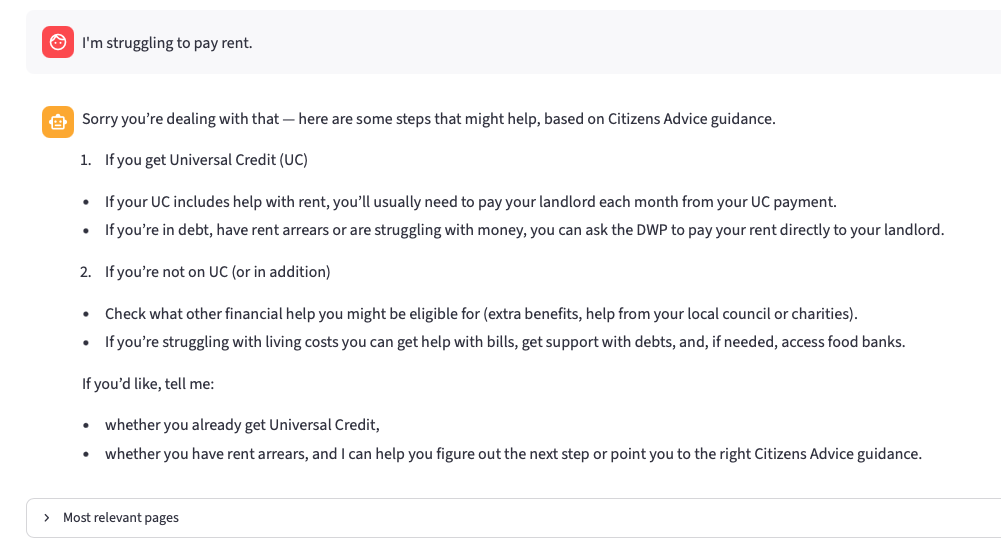
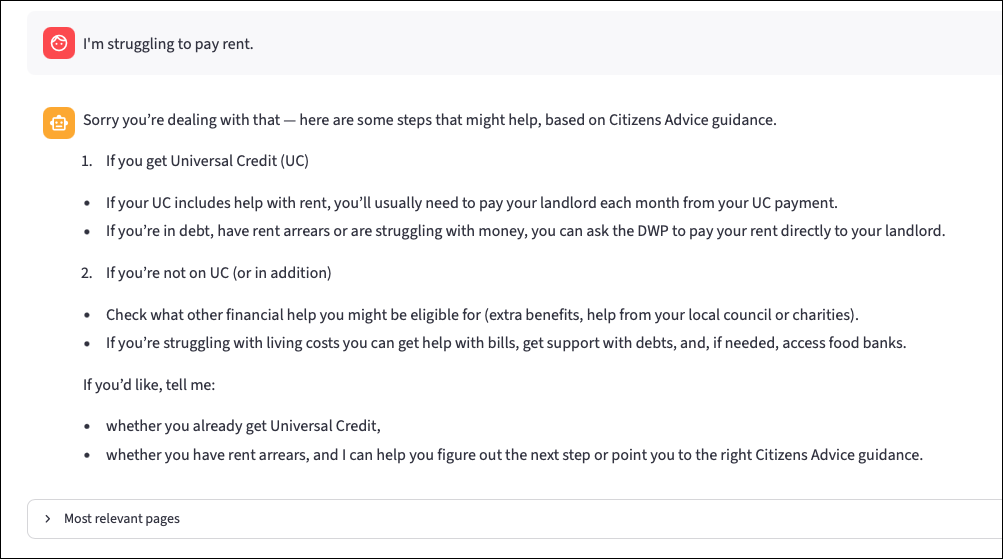
feat: make API request path async

diff --git a/app/graph.py b/app/graph.py
@@ -21,7 +21,7 @@ ANSWER_PROMPT = ANSWER_PROMPT_PATH.read_text(encoding='utf-8')
 
 
 @traceable
-def rewrite_query(state: State) -> State:
+async def rewrite_query(state: State) -> State:
     """Rewrite the latest user query to improve document retrieval."""
 
     # Build messages for LLM
@@ -31,7 +31,7 @@ def rewrite_query(state: State) -> State:
     logger.info('llm_called', stage='rewrite', model=CHAT_MODEL, messages=len(messages))
 
     # Call LLM to rewrite the query
-    rewritten_query = llm.invoke(messages).text
+    rewritten_query = (await llm.ainvoke(messages)).text
 
     # Log rewritten query
     logger.info('query_rewritten', chars=len(rewritten_query), preview=rewritten_query[:120])
@@ -43,11 +43,11 @@ def rewrite_query(state: State) -> State:
 
 
 @traceable
-def retrieve_node(state: State) -> State:
+async def retrieve_node(state: State) -> State:
     """Retrieve relevant documents for the latest user message."""
 
     # Retrieve documents
-    documents = retrieve(state['rewritten_query'])
+    documents = await retrieve(state['rewritten_query'])
 
     # Log retrieval
     logger.info('docs_retrieved', count=len(documents), top_score=documents[0].get('score') if documents else None)
@@ -59,7 +59,7 @@ def retrieve_node(state: State) -> State:
 
 
 @traceable
-def answer_node(state: State) -> State:
+async def answer_node(state: State) -> State:
     """Generate an answer based on the conversation and retrieved documents."""
 
     # Format the retrieved documents into a string for the prompt
@@ -79,7 +79,7 @@ def answer_node(state: State) -> State:
 
     answer = ''
 
-    for chunk in llm.stream(messages):
+    async for chunk in llm.astream(messages):
         delta = chunk.text
         if delta:
             answer += delta

diff --git a/api.py b/api.py
@@ -1,5 +1,5 @@
 import json
-from collections.abc import Iterator
+from collections.abc import AsyncIterator
 from secrets import compare_digest
 from typing import Literal
 from uuid import uuid4
@@ -77,7 +77,7 @@ def build_messages(history: list[ChatMessage], query: str) -> list[BaseMessage]:
     return messages
 
 
-def generate_chat_stream(messages: list[BaseMessage]) -> Iterator[str]:
+async def generate_chat_stream(messages: list[BaseMessage]) -> AsyncIterator[str]:
     """Generator function to stream chat responses from the graph."""
 
     # Initialise answer and state
@@ -85,7 +85,7 @@ def generate_chat_stream(messages: list[BaseMessage]) -> Iterator[str]:
 
     # Stream from the graph
     try:
-        for mode, item in graph_app.stream({'messages': messages}, stream_mode=['custom', 'values']):
+        async for mode, item in graph_app.astream({'messages': messages}, stream_mode=['custom', 'values']):
 
             # Answer tokens
             if mode == 'custom':
@@ -122,7 +122,7 @@ def health() -> dict[str, str]:
 
 @app.post('/chat/stream')
 @limiter.limit(CHAT_RATE_LIMIT)
-def chat_stream(
+async def chat_stream(
     request: Request,
     chat_request: ChatRequest,
     _api_key: None = Depends(require_api_key),
@@ -139,6 +139,7 @@ def chat_stream(
 
     # Log user query
     logger.info('user_query_received', chars=len(chat_request.query), preview=chat_request.query[:120])
+    # TODO: Make sure that request_id is included in all other logs
 
     # Reject requests that exceed input token limit
     token_count = token_counter.get_num_tokens(chat_request.query)

diff --git a/app/search_docs.py b/app/search_docs.py
@@ -1,5 +1,5 @@
-from openai import OpenAI
-from qdrant_client import QdrantClient
+from openai import AsyncOpenAI
+from qdrant_client import AsyncQdrantClient
 
 from config import (
     COLLECTION_NAME,
@@ -11,21 +11,22 @@ from config import (
 from app.schemas import RetrievedDocument
 
 
-def retrieve(query: str, top_k: int = TOP_K) -> list[RetrievedDocument]:
+async def retrieve(query: str, top_k: int = TOP_K) -> list[RetrievedDocument]:
     """Retrieve the most relevant documents for a query."""
 
     # Initialise clients
-    openai_client = OpenAI()
-    qdrant_client = QdrantClient(url=QDRANT_URL, api_key=QDRANT_API_KEY)
+    openai_client = AsyncOpenAI()
+    qdrant_client = AsyncQdrantClient(url=QDRANT_URL, api_key=QDRANT_API_KEY)
 
     # Generate embedding for query
-    embedding = openai_client.embeddings.create(
+    embedding_response = await openai_client.embeddings.create(
         model=EMBEDDING_MODEL,
         input=query,
-    ).data[0].embedding
+    )
+    embedding = embedding_response.data[0].embedding
 
     # Query Qdrant for most similar documents
-    results = qdrant_client.query_points(
+    results = await qdrant_client.query_points(
         collection_name=COLLECTION_NAME,
         query=embedding,
         limit=top_k,

diff --git a/README.md b/README.md
@@ -1,8 +1,8 @@
+![Support Navigator](assets/demo.png)
+
 # Support Navigator
 
 AI-powered welfare support chatbot using LangGraph, FastAPI, BeautifulSoup, Qdrant, OpenAI, and LangSmith.
-
-![Support Navigator](assets/demo.png)
 
 ## Try it out
 
